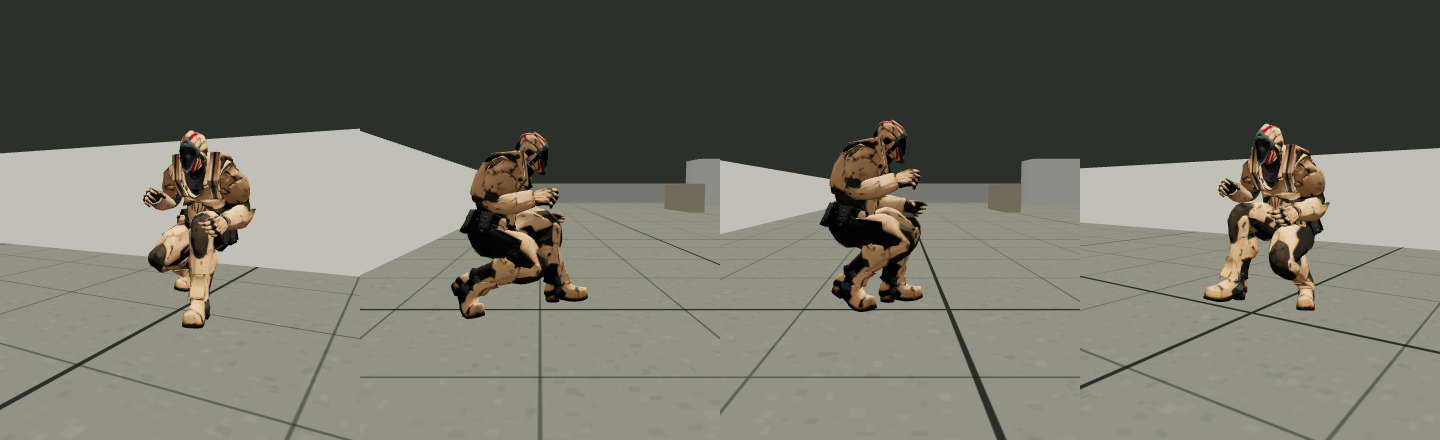
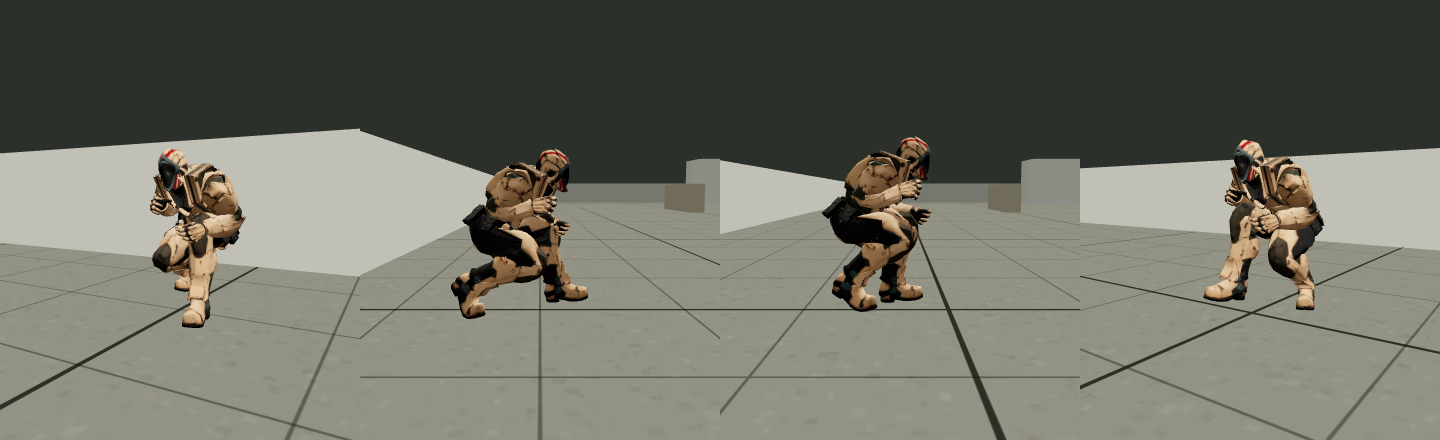
Movement: crouch posture matched to the tactical reference
Crouched, the pelvis hinges forward (lean comes from the hips), the
spine is straightened against the clip's rounding, the neck and head
lift to look ahead, and the arms are bent tight with hands drawn in
front of the chest.

Claude-Session: https://claude.ai/code/session_01WRNBGxb4oV1u1AsziVR1Lj

diff --git a/js/movement/posture.js b/js/movement/posture.js
@@ -37,8 +37,12 @@
     hipDrop: [[0, 0.015], [0.7, 0.035], [1.3, 0.032], [1.9, 0.026], [2.6, 0.018], [3.4, 0.01], [5.0, 0]],
     levelHips: [[0, 0], [0.6, 0.75], [1.8, 0.65], [2.6, 0.3], [3.4, 0]],   // share of hip bob removed
     ankleLock: 0.7,
-    crouchChestUp: 0.32,               // rad the crouch clip's hunch is straightened
-    crouchArms: { keep: 0.2, bend: 0.75, forward: 0.32 },   // tucked, ready arms while crouched
+    // tactical crouch: hinge forward from the hips with a flatter back, head up,
+    // elbows tight and hands drawn in front of the chest
+    crouchHinge: 0.36,                // rad pelvis tips forward (the lean comes from the hips)
+    crouchChestUp: 0.18,               // rad the spine is straightened against the clip's rounding
+    crouchNeckLift: 0.35,
+    crouchArms: { keep: 0.12, bend: 1.25, forward: 0.28, inward: 0.12 },
     idleSquare: 1,                     // 0 = keep the idle clip's turned stance, 1 = face forward                    // 1 = foot keeps the clip's world angle, 0 = follows the shin
     pelvisTilt: [[0, 0.04], [0.7, 0.15], [1.7, 0.13], [2.6, 0.07], [3.4, 0.03], [5.0, 0]],   // rad, chest-forward
     hipsBack: 0.35,                    // pelvis shifts back by this × drop, keeping weight over the feet
@@ -273,11 +277,13 @@
     rotateWorld(b.spine1 || b.spine, fix, t);
     rotateWorld(b.chest, fix, t);
 
+    // crouched: lift the neck so the head comes up and looks ahead
+    if (b.neck && this.st < 1) rotateWorld(b.neck, new THREE.Quaternion().setFromAxisAngle(left, -c.crouchNeckLift * (1 - this.st)), t);
     // 3. steady head: blend toward level, looking slightly down the line of travel
     const hf = this.headFwd.clone().applyQuaternion(b.head.getWorldQuaternion(Q()));
     const want = fwd.clone().applyAxisAngle(left, c.headPitch);
     const hq = new THREE.Quaternion().setFromUnitVectors(hf.normalize(), want.normalize());
-    rotateWorld(b.head, new THREE.Quaternion().slerp(hq, lerp(0.85, c.headSteady, this.st)), t);
+    rotateWorld(b.head, new THREE.Quaternion().slerp(hq, lerp(0.95, c.headSteady, this.st)), t);
 
     const walkF = smooth(0.1, 1.0, s), sprintF = smooth(4.4, 5.4, s);
     if (this.carry === 'unarmed') this._unarmed(dt, s, walkF, sprintF, fwd, left, up);
@@ -328,7 +334,7 @@
     H.addScaledVector(up, -this.drop).addScaledVector(fwd, -this.drop * this.cfg.hipsBack);
     hips.position.copy(hips.parent.worldToLocal(H));
     hips.updateMatrixWorld(true);
-    rotateWorld(hips, new THREE.Quaternion().setFromAxisAngle(left, mv.table(this.cfg.pelvisTilt, s) * st), t);
+    rotateWorld(hips, new THREE.Quaternion().setFromAxisAngle(left, mv.table(this.cfg.pelvisTilt, s) * st + this.cfg.crouchHinge * (1 - st)), t);
     for (const f of feet) {
       const out = f.side === 'left' ? left.clone() : left.clone().negate();
       const pole = fwd.clone().add(out.multiplyScalar(0.15));
@@ -384,6 +390,9 @@
       }
       // 2. carry the upper arm slightly forward
       if (forward) rotateWorld(upper, new THREE.Quaternion().setFromAxisAngle(left, -forward), t);
+      // draw the arm in toward the body's midline (crouched)
+      const inward = ca.inward * (1 - st);
+      if (inward) rotateWorld(upper, new THREE.Quaternion().setFromAxisAngle(fwd, side === 'left' ? -inward : inward), t);
       // 3. extra elbow bend about the elbow's own hinge (always flexing forward)
       if (bend) {
         const sh = wpos(upper, V()), el = wpos(lower, V()), wr = wpos(hand, V());
